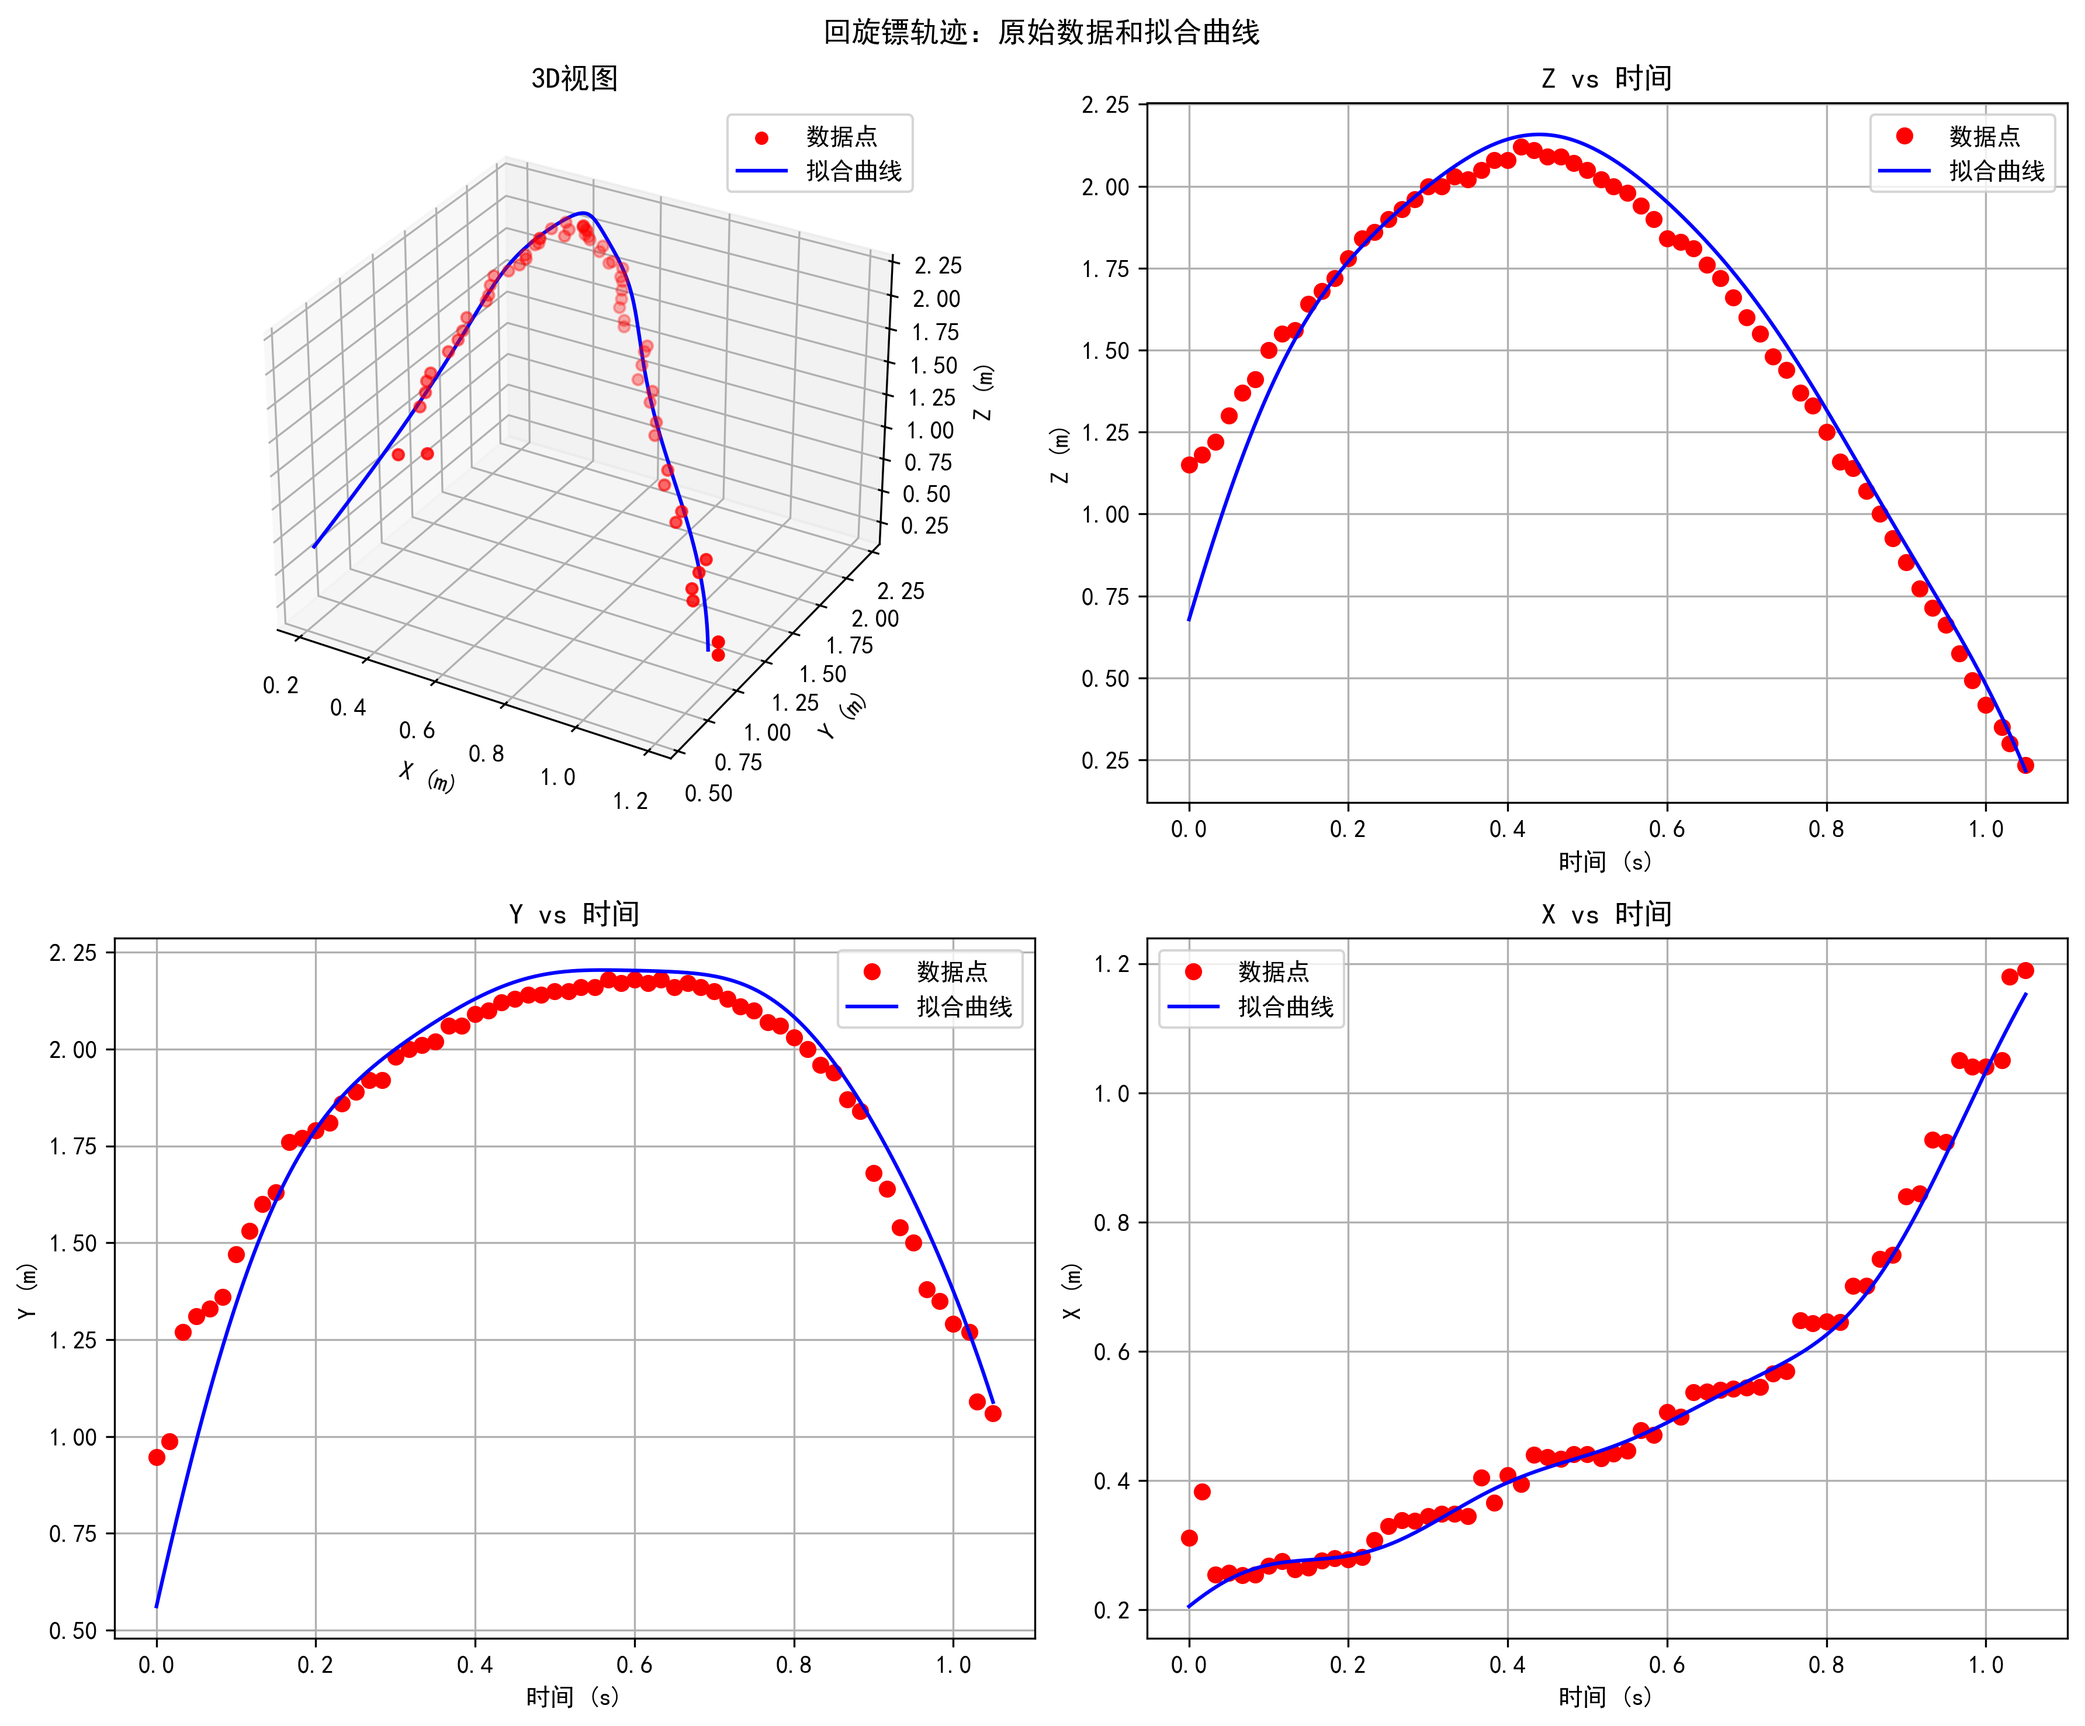
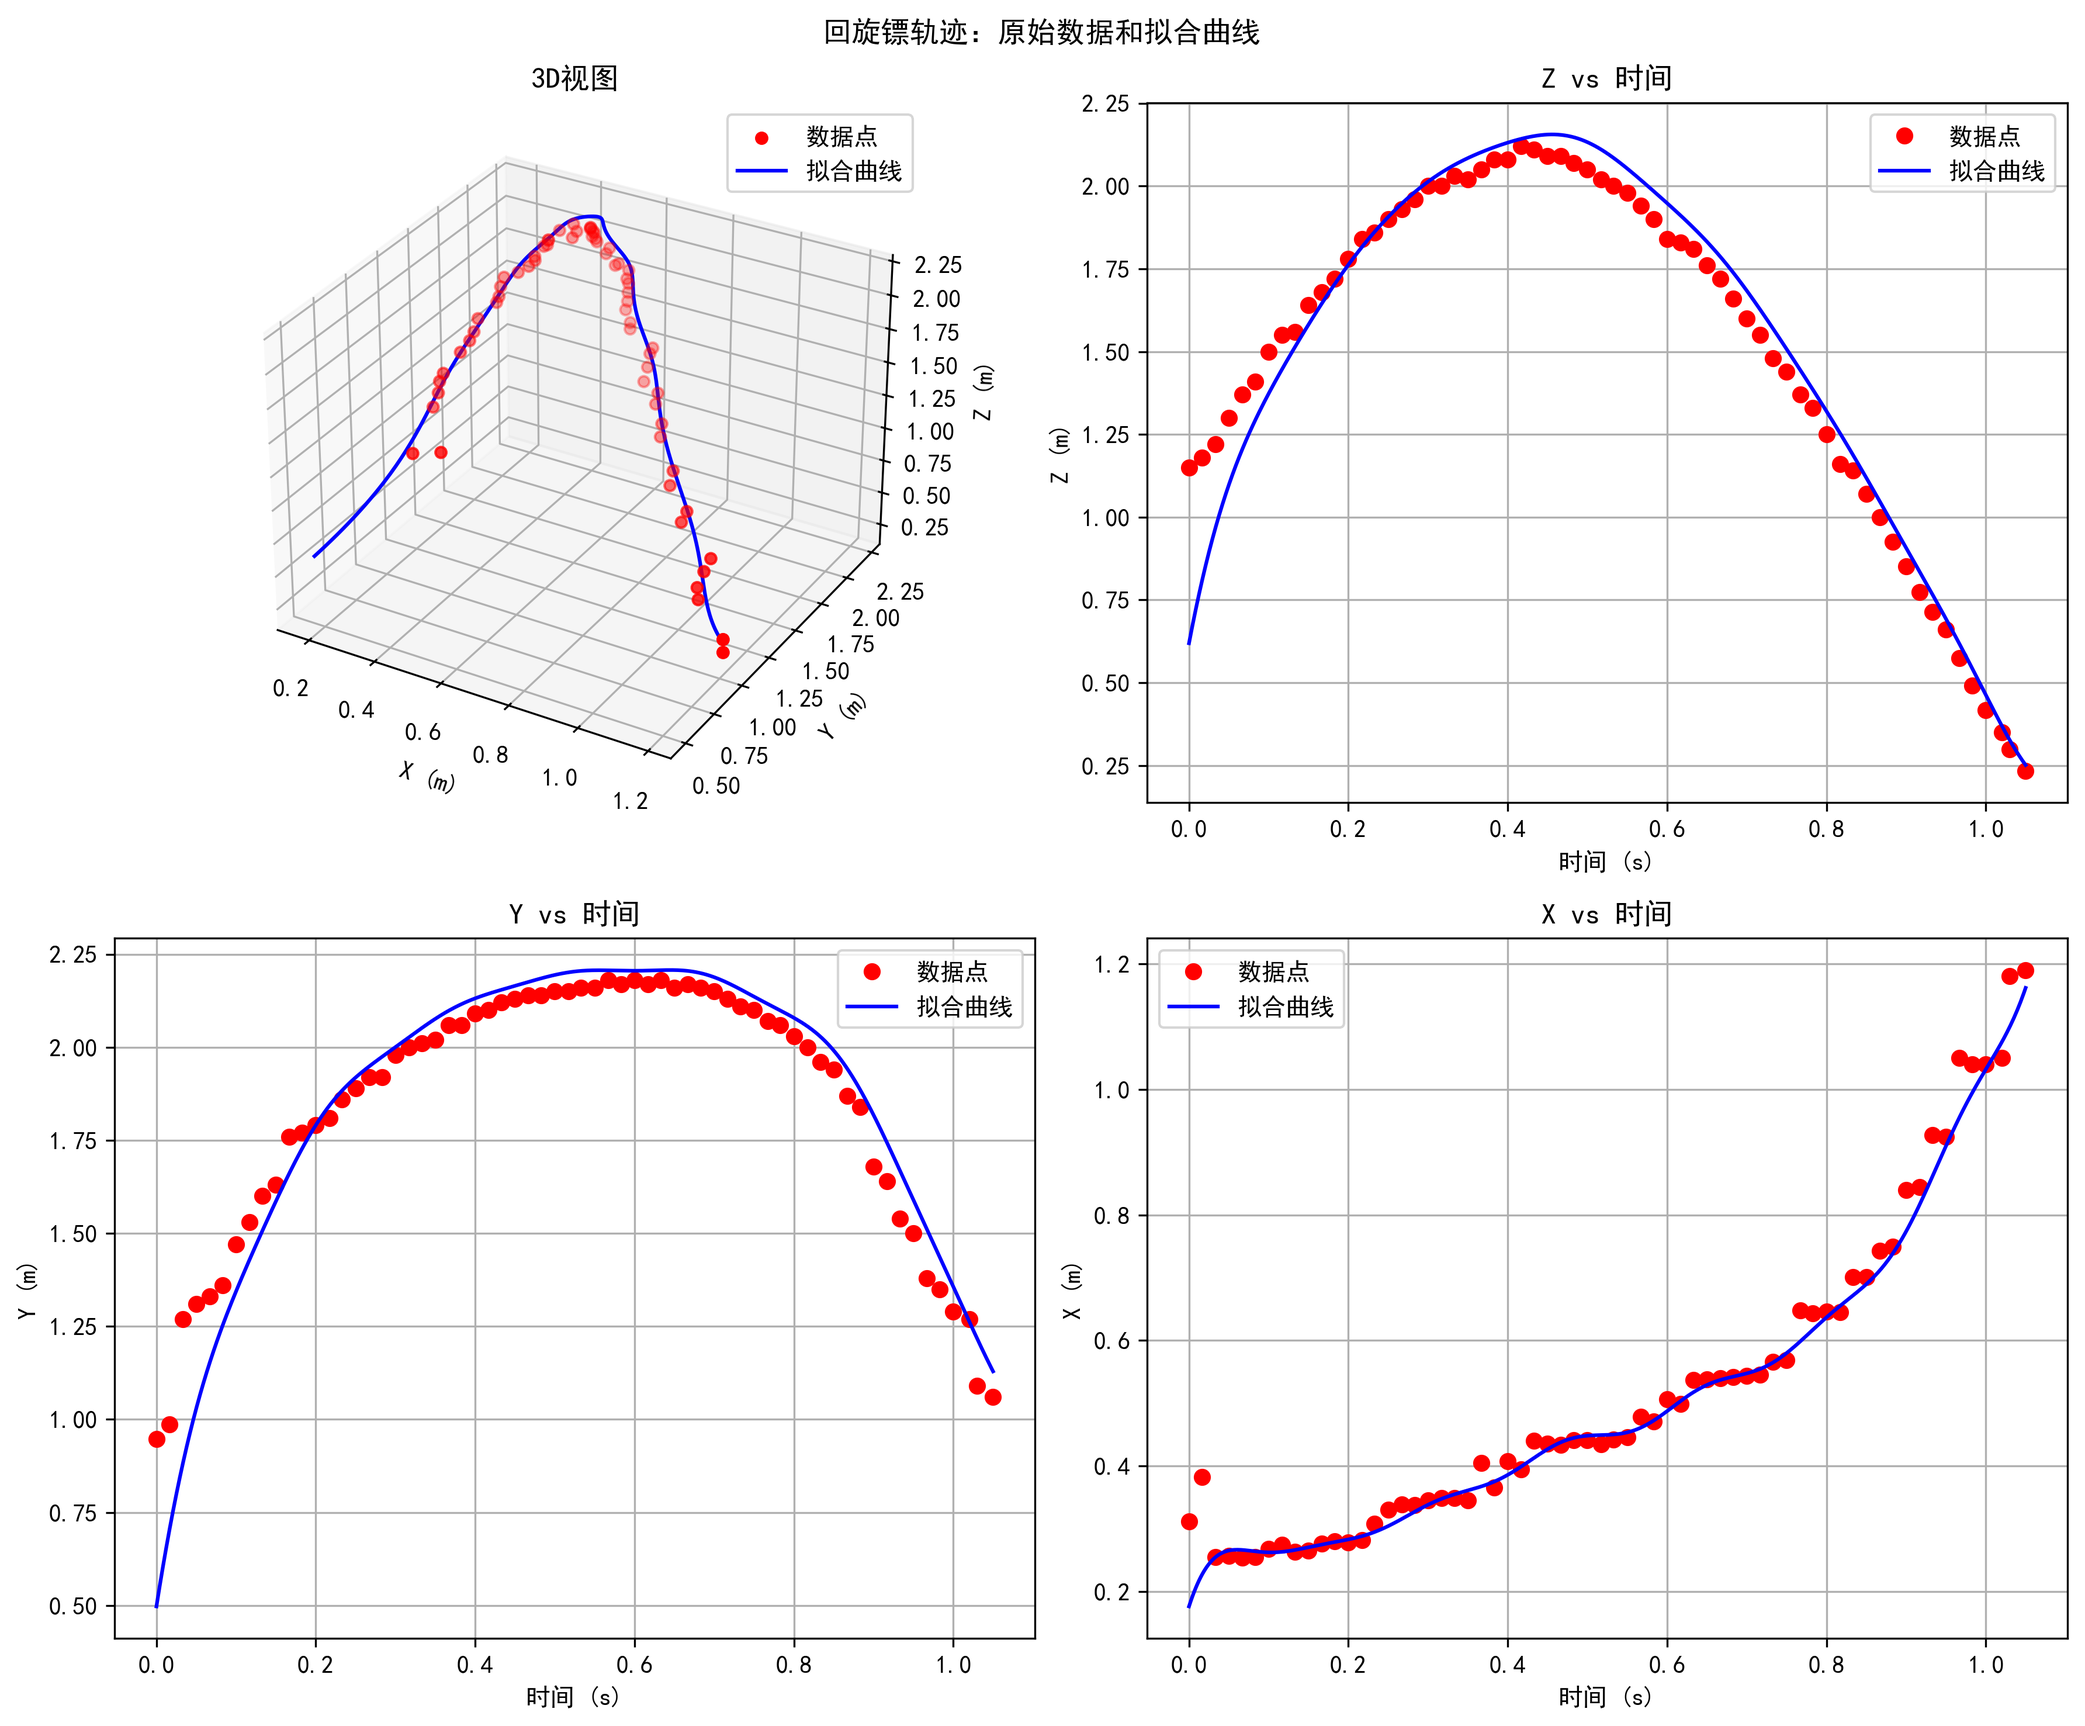
debuging……上课去了

diff --git a/curve_fit_utils.py b/curve_fit_utils.py
@@ -1,16 +1,17 @@
 import numpy as np
 from scipy.optimize import curve_fit
 
-def fourier_polynomial_basis(t, n_fourier=3, n_poly=2):
+def fourier_polynomial_basis(t, n_fourier=6, n_poly=3):
     """
-    生成傅里叶-多项式基函数。
+    生成傅里叶-多项式混合基函数。
     
     :param t: 时间数组
-    :param n_fourier: 傅里叶项数
-    :param n_poly: 多项式阶数
+    :param n_fourier: 傅里叶项数，默认为6
+    :param n_poly: 多项式阶数，默认为3
     :return: 基函数矩阵
     """
     basis = []
+    
     # 添加多项式项
     for i in range(n_poly + 1):
         basis.append(t**i)
@@ -21,13 +22,13 @@ def fourier_polynomial_basis(t, n_fourier=3, n_poly=2):
     
     return np.array(basis).T
 
-def fit_3d_curve(data, n_fourier=3, n_poly=2):
+def fit_3d_curve(data, n_fourier=6, n_poly=3):
     """
-    对3D轨迹数据进行傅里叶-多项式拟合。
+    对3D轨迹数据进行六阶傅里叶-多项式拟合。
     
     :param data: 数组，结构为[[t,x,y,z],...]
-    :param n_fourier: 傅里叶项数
-    :param n_poly: 多项式阶数
+    :param n_fourier: 傅里叶项数，默认为6
+    :param n_poly: 多项式阶数，默认为3
     :return: (系数数组, 拟合函数, 解析式)
     """
     t = data[:, 0]
@@ -57,9 +58,10 @@ def fit_3d_curve(data, n_fourier=3, n_poly=2):
         
         # 生成解析式
         terms = []
+        
         # 多项式项
         for j in range(n_poly + 1):
-            if abs(coeff[j]) > 1e-10:  # 忽略接近0的系数
+            if abs(coeff[j]) > 1e-10:
                 if j == 0:
                     terms.append(f"{coeff[j]:.6f}")
                 elif j == 1:
@@ -68,13 +70,12 @@ def fit_3d_curve(data, n_fourier=3, n_poly=2):
                     terms.append(f"{coeff[j]:.6f}t^{j}")
         
         # 傅里叶项
-        idx = n_poly + 1
         for j in range(n_fourier):
+            idx = j * 2 + n_poly + 1
             if abs(coeff[idx]) > 1e-10:
                 terms.append(f"{coeff[idx]:.6f}sin({2*(j+1)}πt)")
             if abs(coeff[idx+1]) > 1e-10:
                 terms.append(f"{coeff[idx+1]:.6f}cos({2*(j+1)}πt)")
-            idx += 2
         
         expressions.append(f"{coord}(t) = " + " + ".join(terms))
     

diff --git a/test.py b/test.py
@@ -35,7 +35,7 @@ def main():
     export_filtered_data(filtered_data)
 
 def main_with_curve_fit():
-    """使用傅里叶-多项式方法进行曲线拟合"""
+    """使用六阶傅里叶-三阶多项式方法进行曲线拟合"""
     from curve_fit_utils import fit_3d_curve
     from plot_utils import plot_fourier_fit
     
@@ -45,8 +45,8 @@ def main_with_curve_fit():
     origin_data = read_csv("ps.csv")
     
     # 进行曲线拟合
-    print("\n执行傅里叶-多项式拟合...")
-    coeffs, fitted_funcs, expressions = fit_3d_curve(filtered_data, n_fourier=3, n_poly=2)
+    print("\n执行六阶傅里叶-三阶多项式拟合...")
+    coeffs, fitted_funcs, expressions = fit_3d_curve(filtered_data, n_fourier=6, n_poly=3)
     
     # 打印曲线解析式
     print("\n拟合曲线的解析式：")
